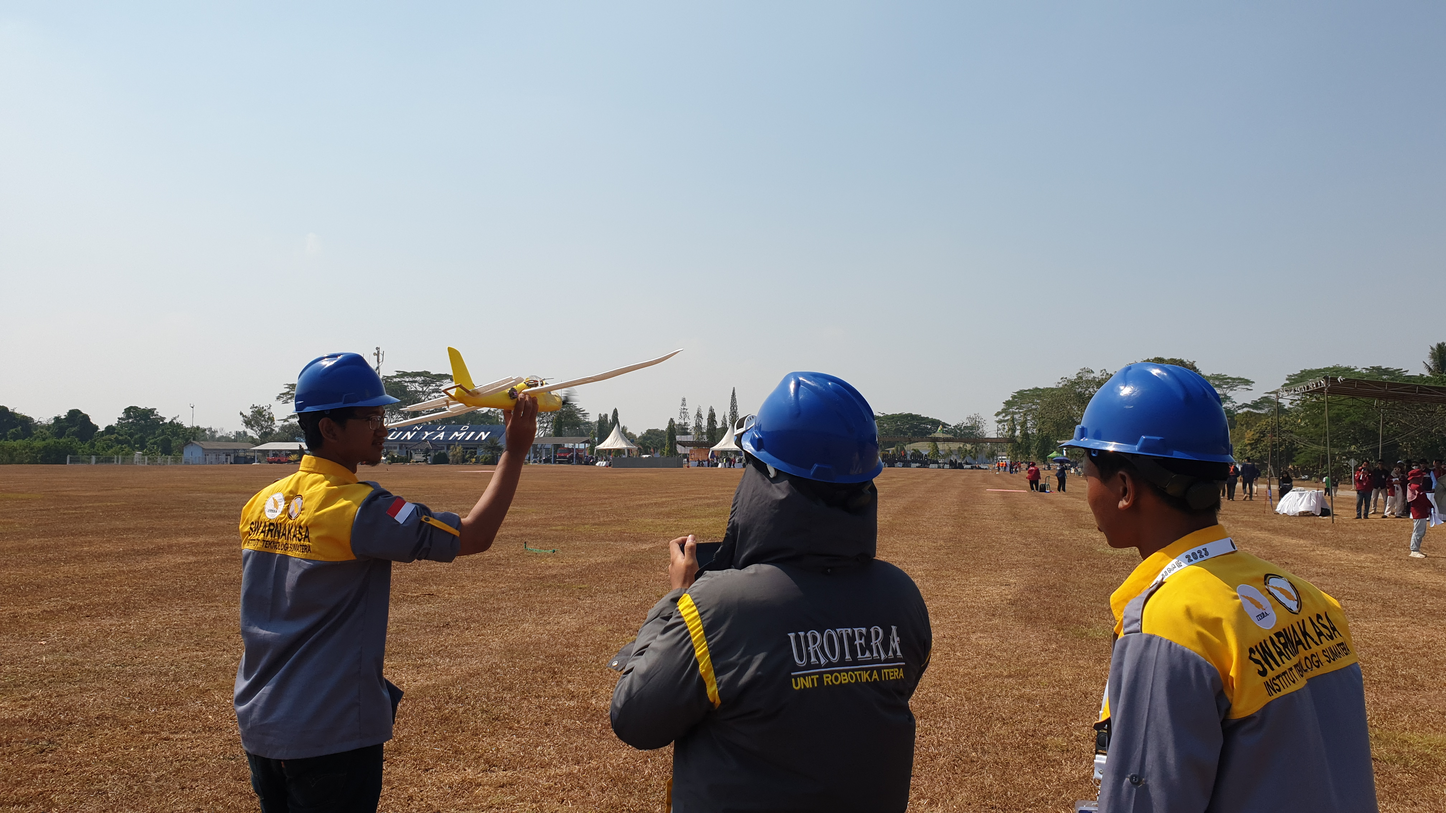
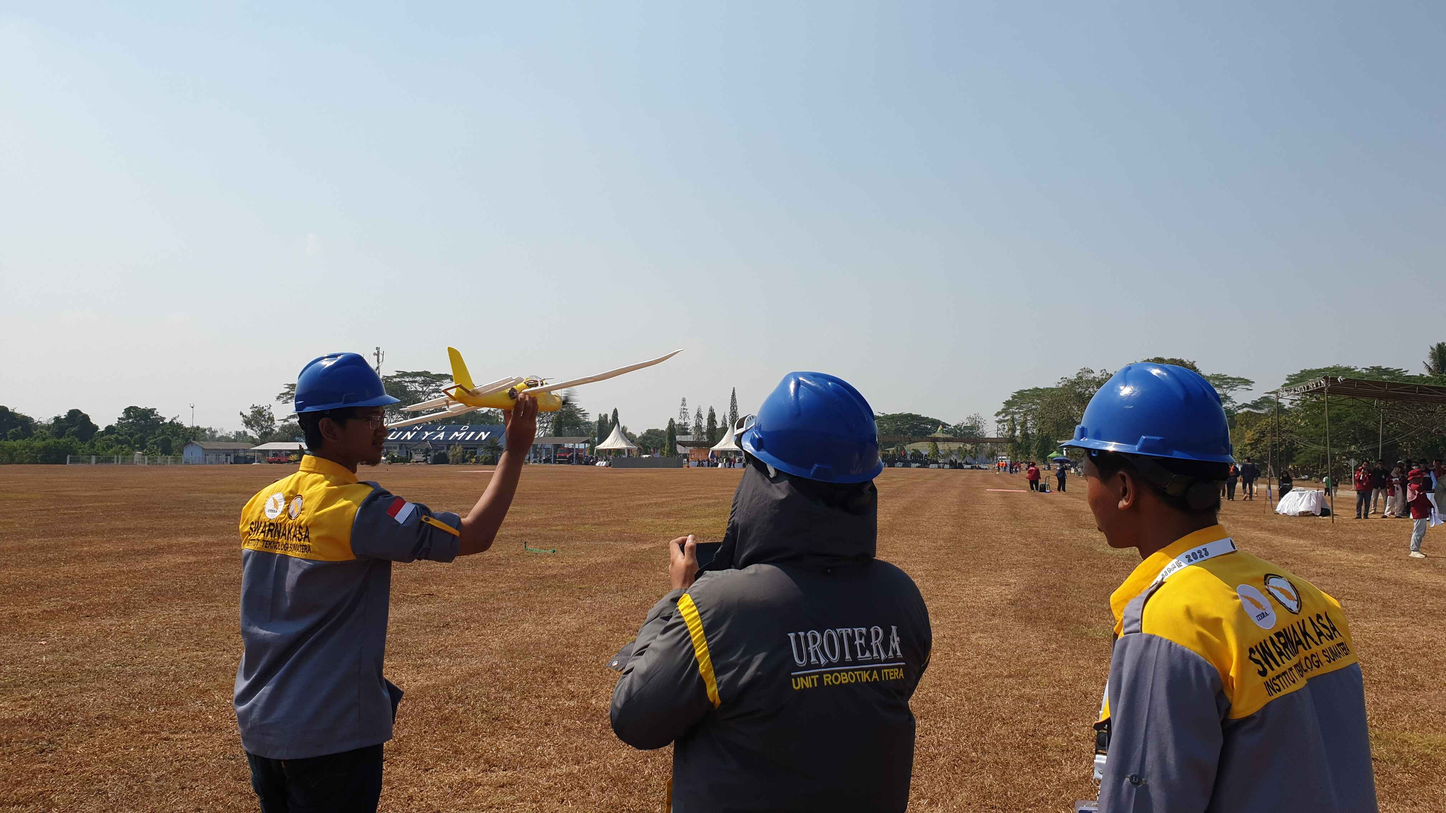
style: adjust & compress image

diff --git a/Swarnakasa ITERA/css/media.css b/Swarnakasa ITERA/css/media.css
@@ -37,8 +37,8 @@
 
 @media (max-width: 750px) {
 
-  .home{
-    background-position: -40rem;
+  .parallax-image {
+    background-position: -15em;
   }
   nav .navbar {
     width: 90%;
